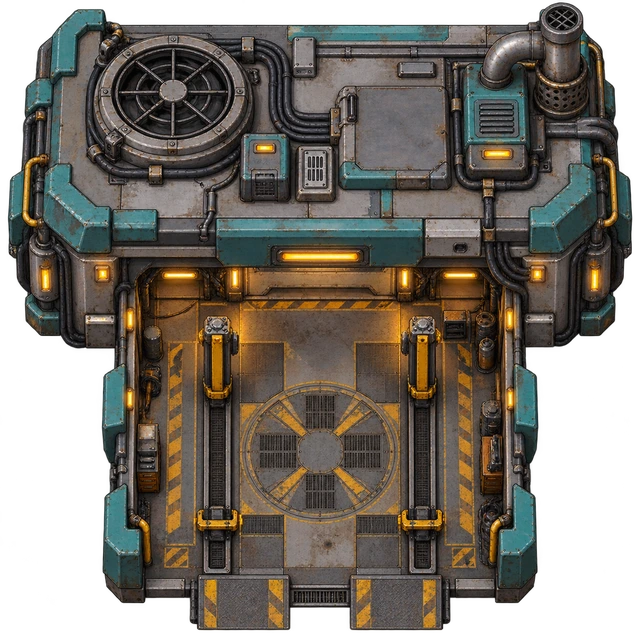
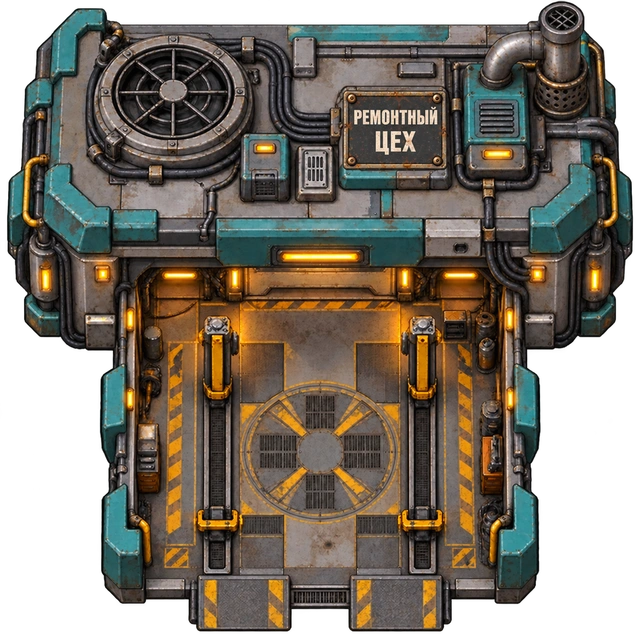
Paint repair shop name into building sprite matching workshop and armory

diff --git a/src/repair-scene.js b/src/repair-scene.js
@@ -7,7 +7,7 @@ import { FLOOR_LIFT } from './lift-state.js';
 export const repairMethods={
  makeRepairObjects(){
   const q=this.repairQuest;
-  if(!this.floorNumber){this.repairShop=new WorkshopView(this,{body:REPAIR_BODY,deck:REPAIR_DECK,key:'repair-shop',sign:'РЕМОНТНЫЙ ЦЕХ'});this.repairShop.powered(q.ready);
+  if(!this.floorNumber){this.repairShop=new WorkshopView(this,{body:REPAIR_BODY,deck:REPAIR_DECK,key:'repair-shop'});this.repairShop.powered(q.ready);
   }
   if(this.floorNumber!==3)return;
   this.repairman=makePerson(this,(REPAIRMAN_SITE.x+.5)*CELL,(REPAIRMAN_SITE.y+.5)*CELL,'ilya').setVisible(!q.rescued);

diff --git a/public/game.js b/public/game.js
@@ -1305,7 +1305,7 @@ function updatePerson(person,delta,rig) {
 const repairMethods={
  makeRepairObjects(){
   const q=this.repairQuest;
-  if(!this.floorNumber){this.repairShop=new WorkshopView(this,{body:REPAIR_BODY,deck:REPAIR_DECK,key:'repair-shop',sign:'РЕМОНТНЫЙ ЦЕХ'});this.repairShop.powered(q.ready);
+  if(!this.floorNumber){this.repairShop=new WorkshopView(this,{body:REPAIR_BODY,deck:REPAIR_DECK,key:'repair-shop'});this.repairShop.powered(q.ready);
   }
   if(this.floorNumber!==3)return;
   this.repairman=makePerson(this,(REPAIRMAN_SITE.x+.5)*CELL,(REPAIRMAN_SITE.y+.5)*CELL,'ilya').setVisible(!q.rescued);
